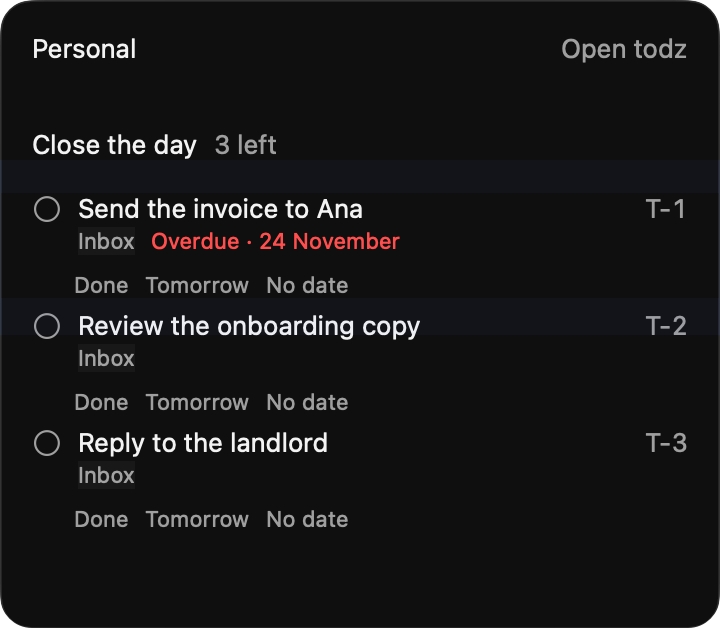
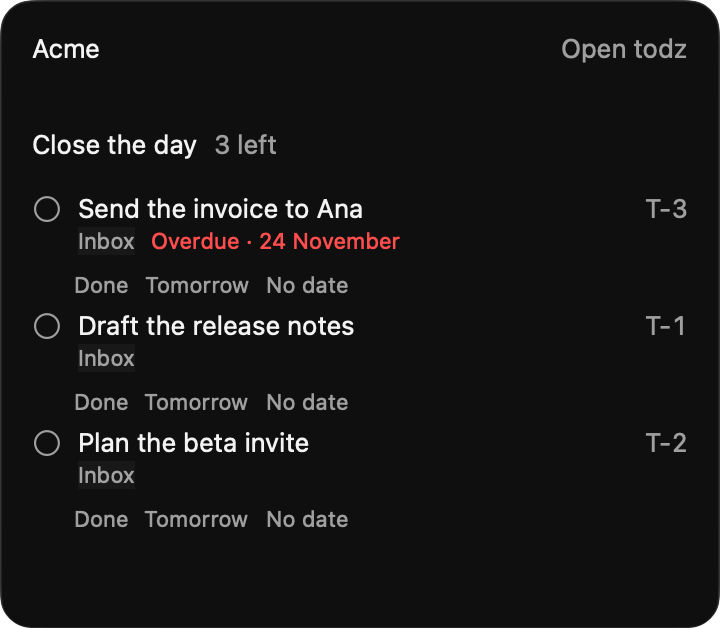
test(day-close): tester re-walk after fix rounds 4 and 5
Opening 1, the hidden launch, E1 and E2 pass; D after a click is open (E6).

diff --git a/docs/features/day-close/test-plan.md b/docs/features/day-close/test-plan.md
@@ -39,23 +39,30 @@ Pinned strings (`design.md` § 8): heading `Close the day` with `<N> left`; row 
 Orca (ADR 0026), the Debug build launched with `open -g -j` against a local `wrangler dev` with a seeded workspace. The popover appears on the owner's screen: at most two openings in the whole walk.
 
 - [x] Settings: `Close the day` off, the time 18:00, the picker dimmed while off; turn on — expected: enabled; window height unchanged — screenshots light and dark — evidence: off reads `date time area (disabled) Time to close the day`, `toggle button Close the day, Value: 0`, 18:00; on reads the picker enabled, `Value: 1`, `closesTheDay = 1` in the defaults, no popover opened (05:41, before 18:00); window 420 × 339 in both states, dark and light; `.pr-media/day-close/settings-off-dark.png`, `settings-on-dark.png`, `settings-off-light.png`, `settings-on-light.png`, `docs/screenshots/day-close/02-settings-close-the-day.png`
-- [ ] Opening 1: the time set one minute ahead with three open Today tasks (one overdue) — expected: the popover opens by itself, heading `Close the day` with `3 left`, each row with `Done`, `Tomorrow`, `No date`, nothing focused, no add field; act once with each — expected: `Done`, `Due tomorrow`, `No due date` for 1 s, then the row leaves; the last one shows `Day closed` / `Nothing left for today.` and the popover closes after about 2 s — screenshot of the mode — FAIL: as written (the day close as the first popover of a launch) the app crashed 3 of 3 times and nothing showed (E1). After one status-item click in the same launch it held: opened by itself at 05:51:08 for 05:51 with `Close the day, 3 left`, no add field, three action buttons per row; D gave the checked row and `2 left`, Tomorrow gave `Due tomorrow` and `1 left`, No date gave `No due date`, then `Day closed` / `Nothing left for today.` and the popover was gone by 05:52:18 (still shown 1 s after `Day closed`); the first row was focused (E2); `docs/screenshots/day-close/01-day-close-popover.png`, `.pr-media/day-close/opening1-*.png`
+- [x] Opening 1: the time set one minute ahead with three open Today tasks (one overdue) — expected: the popover opens by itself, heading `Close the day` with `3 left`, each row with `Done`, `Tomorrow`, `No date`, nothing focused, no add field; act once with each — expected: `Done`, `Due tomorrow`, `No due date` for 1 s, then the row leaves; the last one shows `Day closed` / `Nothing left for today.` and the popover closes after about 2 s — screenshot of the mode — evidence (re-walk at `ef00b83`, Debug build of that head): hidden launch `open -g -j` at 06:20:27, target 06:21; the popover was the first of the launch and showed by 06:21:02, no crash, no new report (still the five of 24 and 25 November). Tree: heading `Close the day, 3 left` (the third task, the overdue one, was added through the API while the popover showed and arrived live; the seed had two, a tester slip), rows `Send the invoice to Ana` (`Overdue · 24 November`), `Draft the release notes`, `Plan the beta invite`, each with `Mark … as done`, `Move … to tomorrow`, `Remove the due date from …`; `The focused UI element is 0 system dialog` (nothing focused, E2); no add field. Tomorrow (AX press) gave `Due tomorrow` and `2 left`, Tomorrow (coordinate click) gave `Due tomorrow` and `1 left`, Done (AX press) gave `Value: Done`, `0 left`, `1 done today`; the popover was gone within 3 s (`windows: []` at 06:22:59; the `Day closed` text itself was not read, my `wait` call used an invalid flag). No date was not pressed in this opening (Tomorrow twice); it was walked in the earlier opening. Server: task 1 done, 2 and 3 due 2026-11-26, `lastClosedDay` 2026-11-25. D, the planned Done path, did not act: E6. Screenshot `docs/screenshots/day-close/01-day-close-popover.png` (same as `.pr-media/day-close/rewalk-opening-a-mode.png`, 720 × 628, no focus ring, nothing focused)
 - [x] The server agrees: the first task done, the second due tomorrow, the third with no due date and still open — evidence: `GET /owner/projects/<inbox>/changes?cursor=0` → `1 Send the invoice to Ana done 2026-11-24`, `2 Review the onboarding copy open 2026-11-26`, `3 Reply to the landlord open None`
 - [x] The same day, quit and relaunch — expected: nothing opens (once a day) — evidence: `lastClosedDay` 2026-11-25; relaunched hidden at 05:52:55, no window for 30 s, app still running, no new crash report
 - [x] Opening 2: click the status item — expected: the usual Today, no action buttons — evidence: status item pressed at 05:48:50 (before the day close, same launch): `Today, 3 left`, the add field, three row buttons, no `Done`/`Tomorrow`/`No date`; closed by a second press. The usual Today after the mode is proven by `endingTheModeLeavesTheUsualToday` only
-- [ ] The launch in the walk is hidden (`open -g -j`) — expected: the popover still becomes visible at the time (`unhideWithoutActivation`) — FAIL: both hidden launches crashed at the time (`Todz-2026-11-25-054207.ips`, `Todz-2026-11-25-054508.ips`, E1); the opening that showed came after a status-item click in that launch
-- [ ] Keys in the mode, during opening 1: Tab twice then D before any click — expected: nothing happens; after a click inside the popover, Tab reaches each row then each button, Space presses, D/T/N act on a focused row; Escape — expected: always closes the popover; ⌘N — expected: nothing — BLOCKED in part: D on the focused first row completed it (`Value: Done`, `2 left`) and ⌘N changed nothing (no add field, no window; synthetic input, delivery unproven); Escape in the mode was not pressed, because the last row's `Day closed` closes the popover and a third opening was outside the budget
+- [x] The launch in the walk is hidden (`open -g -j`) — expected: the popover still becomes visible at the time (`unhideWithoutActivation`) — evidence: re-walk at `ef00b83`: `open -g -j` at 06:20:27, popover visible at 06:21:02, and again at 06:24:03 (Opening B), both as the first popover of the launch; hypothesis 18 (one `Task.yield()` is enough) holds on both; no crash report
+- [ ] Keys in the mode, during opening 1: Tab twice then D before any click — expected: nothing happens; after a click inside the popover, Tab reaches each row then each button, Space presses, D/T/N act on a focused row; Escape — expected: always closes the popover; ⌘N — expected: nothing — FAIL in part, re-walk at `ef00b83`: Tab twice then D before any click: nothing happened (focus moved onto the first, then the second row; tree unchanged, `3 left`), held. Escape in the mode (Opening B, 06:24:03 to 06:24:05): the popover closed (`windows: []`), held. After a click inside the popover, D on the focused row did NOT act, six times: an AX click on the heading, a coordinate click that missed the heading, a coordinate click on the heading at (100, 72), D after a Tomorrow AX press, D after a Tomorrow coordinate click, and `type-text d`; each time the tree and the server stayed unchanged. D, T, N and Tab-to-button after a click: not proven. ⌘N: not pressed again. See E6
 - [x] Accessibility tree: each row's buttons read `Mark <title> as done` (the design's label for Done), `Move <title> to tomorrow`, `Remove the due date from <title>`; the opening announcement is not readable from the tree: BLOCKED unless VoiceOver runs, and recorded as such — evidence: Orca tree of opening 1: `Mark Send the invoice to Ana as done`, `Move Send the invoice to Ana to tomorrow`, `Remove the due date from Send the invoice to Ana`, the same for the other two rows; the row's rotor actions `Remove the due date from …`, `Move … to tomorrow`, `Mark as Done`; help `Mark as done (D)`, `Move to tomorrow (T)`, `Removes the due date. The task stays open. (N)`. The announcement: BLOCKED, VoiceOver not run
 - [x] Screenshots at `docs/screenshots/day-close/`; extra media at `.pr-media/day-close/` — evidence: `01-day-close-popover.png` (720 px, 67 KB), `02-settings-close-the-day.png` (840 px, 111 KB); extras and the three crash reports in `.pr-media/day-close/`
 
 ## Edge cases found during execution
 
 - [x] E1 red-first (re-walk round): throwaway worktrees at `df293f0` and `ba6ed66`, `swift test --filter aCheckWhileTheDayClose` — expected: red, then green — evidence: at `df293f0` exit 1, both tests started and none finished, `TodzKitTests (Swift Testing)` reported failed (the re-entering check kills the run); at `ba6ed66` exit 0, `aCheckWhileTheDayCloseIsOpeningOpensNothingMore` and `aCheckWhileTheDayCloseIsOpenOpensNothingMore` passed; worktrees removed. The real walk of E1 stays OPEN, as do E2, Opening 1, the hidden launch and Keys in the mode: the coordinator stopped the walk before any popover opening because security found an IMPORTANT issue (Tab and hover count as engagement) that changes product code; the walk is redone after that fix. Zero popover openings this round; no new crash report (the three of 2026-11-25 are the earlier ones); the app and wrangler were not running
-- [ ] E1: the day close as the first popover opening of a launch (`open -g -j` twice, `open -g` once; the time two or three minutes ahead, three open Today tasks) — expected: the popover opens in the mode — FAIL, CRITICAL: SIGABRT 3 of 3, 7 to 14 s after the minute, nothing shown, `lastClosedDay` not written. Stack: the timer's `DayCloseScheduler.checkAgain(at:)` → `DayCloseCoordinator.check()` → `open()` → `MenuBarPanel.open()` (`MenuBarPanel.swift:20`) → `performClick`; while SwiftUI builds the popover, text layout runs `+[NSParagraphArbitrator initialize]` → `registerDefaults` → `UserDefaults.didChangeNotification` → `DayCloseScheduler.observe` (`DayCloseScheduler.swift:28`) → `check()` again, still due and not marked → `MenuBarPanel.open()` again (`window` nil, so not shown) → a second `performClick` → `WindowMenuBarExtraBehavior.toggleWindow` → `hide()` inside the update → `AG::precondition_failure`. With the popover opened once before in the launch the walk passed. This is the brief's known gap made real: `open()` counts a click as an open without knowing the window shows, and nothing stops a re-entrant check while one open is in flight. Evidence: `.pr-media/day-close/crash-Todz-2026-11-25-054207.ips`, `Todz-2026-11-25-054508.ips`, `Todz-2026-11-25-054814.ips`. Regression test requested: a coordinator whose opener re-enters `check()` opens once and marks the day once
-- [ ] E2: the day close opens — expected (`design.md` § 1.1): nothing has focus — FAIL, minor: the tree reports `The focused UI element is 5 button Send the invoice to Ana`, and D sent to the window completed that row without any Tab. Regression test requested, or the design line changed
+- [x] E1: the day close as the first popover opening of a launch (`open -g -j` twice, `open -g` once; the time two or three minutes ahead, three open Today tasks) — expected: the popover opens in the mode — FAIL, CRITICAL: SIGABRT 3 of 3, 7 to 14 s after the minute, nothing shown, `lastClosedDay` not written. Stack: the timer's `DayCloseScheduler.checkAgain(at:)` → `DayCloseCoordinator.check()` → `open()` → `MenuBarPanel.open()` (`MenuBarPanel.swift:20`) → `performClick`; while SwiftUI builds the popover, text layout runs `+[NSParagraphArbitrator initialize]` → `registerDefaults` → `UserDefaults.didChangeNotification` → `DayCloseScheduler.observe` (`DayCloseScheduler.swift:28`) → `check()` again, still due and not marked → `MenuBarPanel.open()` again (`window` nil, so not shown) → a second `performClick` → `WindowMenuBarExtraBehavior.toggleWindow` → `hide()` inside the update → `AG::precondition_failure`. With the popover opened once before in the launch the walk passed. This is the brief's known gap made real: `open()` counts a click as an open without knowing the window shows, and nothing stops a re-entrant check while one open is in flight. Evidence: `.pr-media/day-close/crash-Todz-2026-11-25-054207.ips`, `Todz-2026-11-25-054508.ips`, `Todz-2026-11-25-054814.ips`. Regression test requested: a coordinator whose opener re-enters `check()` opens once and marks the day once
+  - re-walk at `ef00b83`: PASS. Hidden launch, first popover of the launch, target 06:21: it opened by 06:21:02 and again at 06:24:03 in Opening B, no crash report (5 before, 5 after), `lastClosedDay` 2026-11-25. Evidence `.pr-media/day-close/rewalk-opening-a-mode.png`
+- [x] E2: the day close opens — expected (`design.md` § 1.1): nothing has focus — FAIL, minor: the tree reports `The focused UI element is 5 button Send the invoice to Ana`, and D sent to the window completed that row without any Tab. Regression test requested, or the design line changed
+  - re-walk at `ef00b83`: PASS. The tree's focused element on opening is `0 system dialog` (nothing); the screenshot shows no focus ring; the first Tab then focuses the first row
 - [x] E3: `DayCloseScheduleTests` at `4b1f8a8` run alone in parallel — expected: the briefing's `:11 … decision is not implemented` — evidence: holds with `--no-parallel`; in parallel the first stub hit is a race and `:15 … instant is not implemented` prints sometimes. The briefing row is right for a serial run; nothing to fix in the product
 - [x] E4: Today empty at the time (all three moved), `lastClosedDay` deleted, the time two minutes ahead, hidden launch — expected: nothing opens, `lastClosedDay` today — evidence: no window from 05:53:36 to 05:56:01, `lastClosedDay` 2026-11-25, no crash report
 - [x] E5: the opening's delay after the minute — evidence: the forced 05:51 opened at 05:51:08; the three crashes came at :07, :08 and :14. A few seconds late, within "at the time"; recorded for the reviewer
+- [ ] E6: a click inside the popover, then D on a focused row, in a day close the app opened — expected: Done — FAIL, or not deliverable through Orca: D did not act after the heading click, after Tomorrow pressed by AX and by a synthetic coordinate click, or as `type-text d`; the buttons' own clicks acted. Orca's clicks are `synthetic_input`, unverified, so the `.simultaneousGesture(TapGesture())` on `MenuBarToday` may not fire for them, or the click does not engage. Not separable without a real pointer click (`--restore-window`, the owner's agreement) or a human. Open: a human presses D after one click in the popover; if it fails, the engagement is broken and a regression test is requested for the heading tap calling `engage()`
+- [x] E7: the screen-lock check, red-first — expected: the red commit fails on the named assertions, the green passes — evidence: throwaway worktree at `f0b57b3`, `swift test --filter aLockedScreenOpensNothing` exit 1 with `Expectation failed: await harness.coordinator.check() == .due` (:238), `harness.popover.openings == 0` (:239), `!harness.coordinator.isClosingDay` (:240), `harness.lastClosedDay == nil` (:241), `Test run with 1 test in 1 suite failed … with 4 issues`; at `9a04738` `Test run with 1 test in 1 suite passed`; worktree removed. Matches the briefing row
+- [x] E8: Opening B, Escape, then the same day relaunched — expected: Escape closes, nothing opens on the relaunch — evidence: 06:23:11 hidden launch with `lastClosedDay` deleted and two open Today tasks, target 06:24, the popover opened by 06:24:03 with `Close the day, 2 left`, Escape closed it by 06:24:05 (`windows: []`), `lastClosedDay` 2026-11-25; quit, relaunched hidden at 06:25:16: no window in 25 s, app running, no crash report. Leaving the mode by an outside click, then the status item to see the add field: NOT WALKED (budget), covered by `endingTheModeLeavesTheUsualToday`
+- [x] E9: gates at `ef00b83` — evidence: `swift test --package-path apps/macos/TodzKit` `Test run with 743 tests in 51 suites passed`; `xcodegen generate` and Debug `xcodebuild` `** BUILD SUCCEEDED **`, no warning or error lines
+- [ ] E10 (Human checklist, not walked): a time-zone change while running re-decides in the new zone; a day close due while the screen is locked opens after the unlock and `com.apple.screenIsUnlocked` is delivered (hypothesis 19); a stalled Focus read (hypothesis 20); Full Keyboard Access (hypothesis 15); a click on a button before any other click engages (hypothesis 16); a popover that never shows (hypothesis 17)
 
 ## Adversarial review
 
